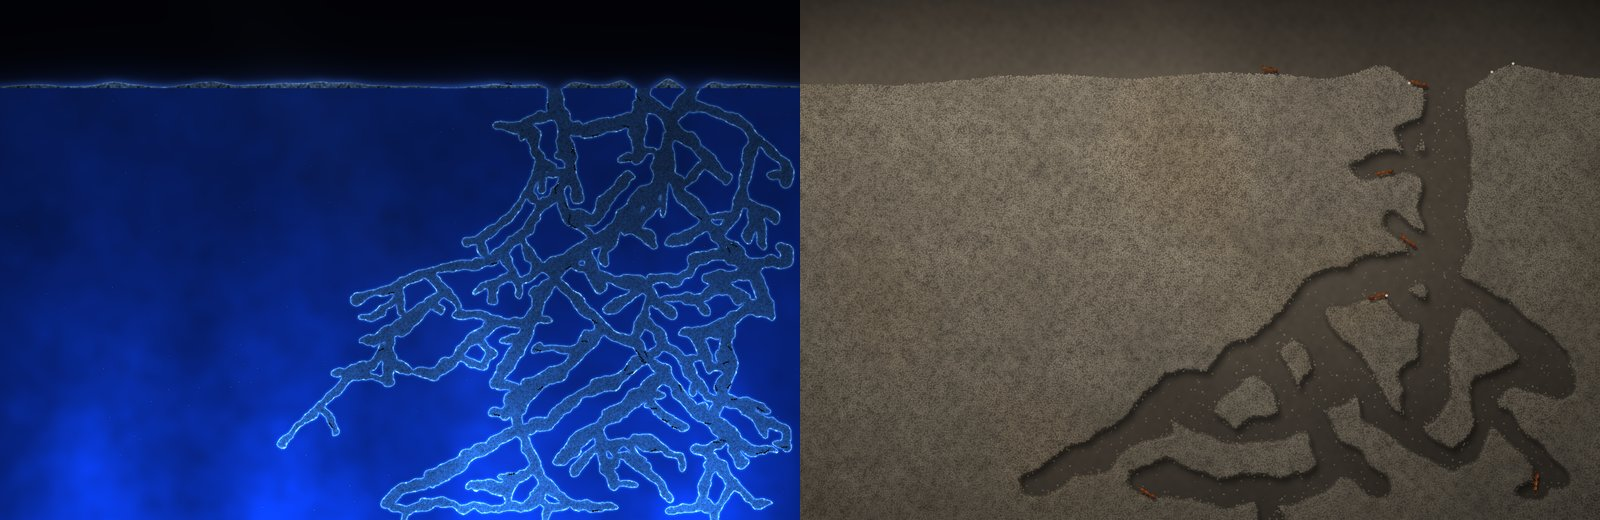
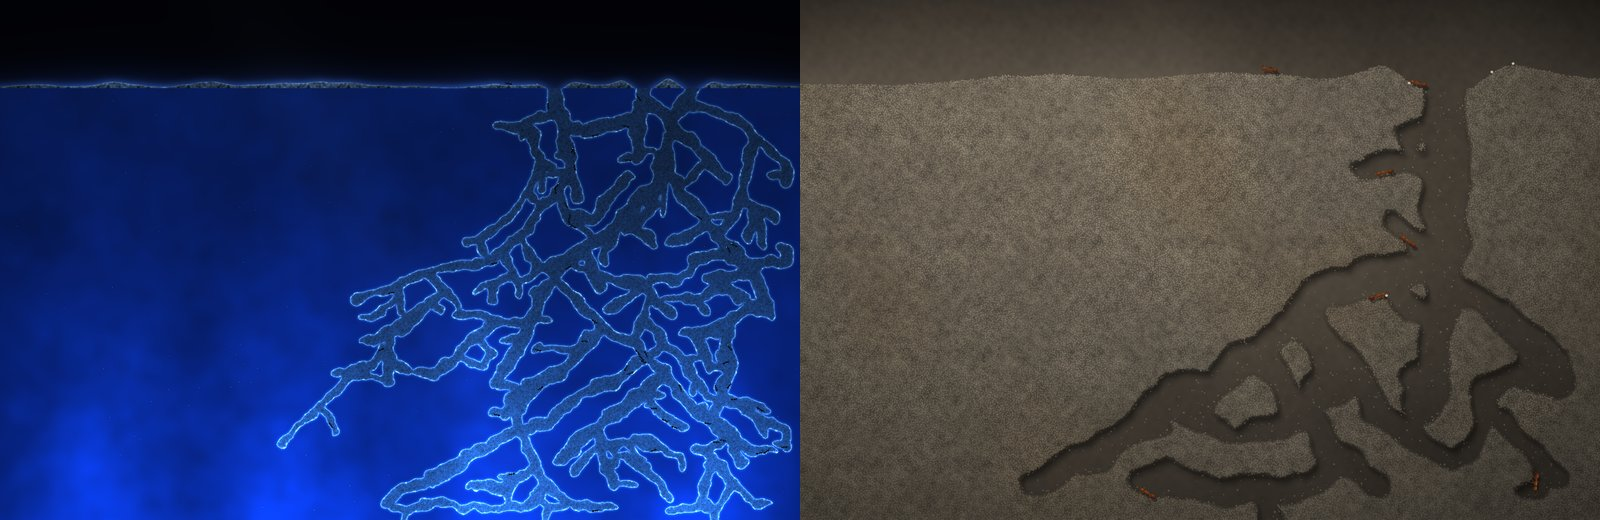
Ant Colony: sand finds a pixel's grain with one read, and the doc's record is put right
Sand cost 3.7 ms of GPU on a 6K display, the size the budget is set
for: to have grains with no lattice, each pixel looked through the
nine squares round it for the nearest. The scatter is now baked once
into a tile that repeats every 64 squares, each texel saying which
grain it is in, how far off its middle is and how big it is, read at
a texel's middle. Sand is 1.5 to 1.7 ms there and 0.45 on a laptop's
display, and looks as it did at native and at half size. A grain's
size is now its own, where it had changed across a grain with the
pixel asking.

In the doc: the standard look and the dim sand are Dave's picks, not
the lead's, and are in his table; his second remark is quoted without
the toy's name, which the doc gives once; at Speed 1 an unfinished
nest carried over is replaced at six; the second of black before a
farm fades up at Small on a 6K display is under "Still open"; Bright
Gel's 2.8 ms there is in the cost table, left until he has chosen
between the gels.

diff --git a/Sources/Atrium/AntColony.swift b/Sources/Atrium/AntColony.swift
@@ -279,6 +279,8 @@ final class AntColony: SKScene {
         return tile
     }()
 
+    private static let scatter = SKTexture(data: Nest.scatter(), size: CGSize(width: 512, height: 512))
+
     private let medium = SKSpriteNode(), swarm = SKNode()
     /// The share dug; how many times that share a cell's rank is from it, for the shader to open a cell over the
     /// digging of the twenty before it; and the whole picture's fade up when a farm lands.
@@ -327,7 +329,8 @@ final class AntColony: SKScene {
         if let made = shaders[look] { return made }
         let made = SKShader(source: shaderCommon + Self.source(look), uniforms: [
             cells, SKUniform(name: "u_bl", float: Float(Self.antCells)), SKUniform(name: "u_px", float: Float(size.width / pixel)),
-            SKUniform(name: "u_grain", texture: Self.grain), map, heap, near, dug, fade, show])
+            SKUniform(name: "u_grain", texture: Self.grain), map, heap, near, dug, fade, show]
+            + (look == 2 || look == 3 ? [SKUniform(name: "u_scatter", texture: Self.scatter)] : []))
         shaders[look] = made
         return made
     }
@@ -669,21 +672,15 @@ final class AntColony: SKScene {
     """
 
     /// The sand's grains: a tenth of an ant across, scattered one to a square with no lattice to them (a lattice
-    /// shows as a weave when the picture is drawn at half size). This finds the grain a pixel is in, the nearest
-    /// of the nine squares round it, which is where the map is then read; and the next nearest, for how big the
-    /// grain can be without running into it.
+    /// shows as a weave when the picture is drawn at half size). The scatter is baked once into a tile that
+    /// repeats every 64 squares (`Nest.scatter`), read at a texel's middle: one read gives the grain a pixel is in,
+    /// where its middle is, which is where the map is then read, and how big it is. (Looking through the nine
+    /// squares round the pixel for it cost 3.7 ms of GPU on a 6K display.)
     private static let grains = """
-            vec2 gp = cell / (0.10 * u_bl), middle = gp, next = gp;
-            float away = 9.0, second = 9.0;
-            vec4 mine = vec4(0.0);
-            for (int k = 0; k < 9; k++) {
-                vec2 square = floor(gp) + vec2(mod(float(k), 3.0), floor(float(k) / 3.0)) - 1.0;
-                vec4 r = hash42(square + 17.0);
-                vec2 c = square + 0.06 + 0.88 * r.xy;
-                float d = length(gp - c);
-                if (d < away) { second = away; next = middle; away = d; middle = c; mine = r; }
-                else if (d < second) { second = d; next = c; }
-            }
+            vec2 gp = cell / (0.10 * u_bl), within = fract(gp / 64.0) * 64.0, texel = (floor(within * 8.0) + 0.5) / 8.0;
+            vec4 mine = texture2D(u_scatter, texel / 64.0);
+            vec2 middle = gp - within + texel + (mine.rg - 0.5) * 3.0;
+            float away = length(gp - middle);
             vec2 at = middle * 0.10 * u_bl;
     """
 
@@ -699,9 +696,9 @@ final class AntColony: SKScene {
             // and a few glinting; and between the beads the shadowed ones behind.
             vec3 sand = \(sand) * (1.0 - clamp(slow.b - 0.6, 0.0, 2.0) * vec3(0.0, 0.018, 0.045));
             vec4 more = hash42(floor(middle) + 53.0);
-            float size = clamp(0.49 * length(middle - next), 0.24, 0.56), bead = clamp((size - away) * 0.10 * u_bl * ppc / 1.3 + 0.5, 0.0, 1.0);
+            float size = 0.24 + 0.32 * mine.b, bead = clamp((size - away) * 0.10 * u_bl * ppc / 1.3 + 0.5, 0.0, 1.0);
             float lamp = dot((gp - middle) / size, vec2(-0.5, -0.86));
-            float shade = (0.90 + 0.11 * mine.w + 0.12 * lamp) * (1.0 + 0.035 * n.b + 0.03 * slow.r) * (1.0 - 0.30 * step(more.x, 0.03));
+            float shade = (0.90 + 0.11 * more.w + 0.12 * lamp) * (1.0 + 0.035 * n.b + 0.03 * slow.r) * (1.0 - 0.30 * step(more.x, 0.03));
             vec3 grain = sand * shade + 0.30 * step(0.955, more.y) * clamp(1.0 - 3.0 * length((gp - middle) / size - vec2(-0.3, -0.4)), 0.0, 1.0);
             vec3 between = sand * (0.74 + 0.04 * n.b);
             float edge = clamp((1.0 - close) * 2.0, 0.0, 1.0); // the sand's last grains before a tunnel

diff --git a/Sources/AntNest/Nest.swift b/Sources/AntNest/Nest.swift
@@ -178,6 +178,39 @@ public struct Nest: Sendable {
         return Data(out)
     }
 
+    /// Sand's grains, scattered once and for all: a tile of `squares` squares a side that repeats, a grain to each
+    /// square and anywhere in it, drawn `texels` texels to a square. Each texel says which grain it is in, the
+    /// nearest: in red and green how far that grain's middle is from the texel's own, over three squares about a
+    /// half, and in blue how big the grain is, from 0.24 of a square to 0.56 (as big as its nearest neighbour
+    /// lets it be). A shader reads it at a texel's middle and so finds a pixel's grain with one read, where
+    /// looking through the squares round the pixel cost nine.
+    public static func scatter(squares: Int = 64, texels: Int = 8, seed: UInt64 = 11) -> Data {
+        var dice = Dice(seed: seed)
+        let middles = (0..<squares * squares).map { k in SIMD2(Double(k % squares), Double(k / squares)) + 0.06 + 0.88 * SIMD2(dice.unit(), dice.unit()) }
+        /// The grains of the nine squares round a square, each where it is as seen from there (the tile repeats).
+        func round(_ x: Int, _ y: Int) -> [SIMD2<Double>] {
+            (0..<9).map { k in
+                let (i, j) = (x + k % 3 - 1, y + k / 3 - 1), (wi, wj) = ((i + squares) % squares, (j + squares) % squares)
+                return middles[wj * squares + wi] + SIMD2(Double(i - wi), Double(j - wj))
+            }
+        }
+        let sizes = (0..<squares * squares).map { k -> Double in
+            let near = round(k % squares, k / squares).map { simd_distance($0, middles[k]) }.filter { $0 > 0 }.min() ?? 1
+            return min(max(0.49 * near, 0.24), 0.56)
+        }
+        let side = squares * texels
+        var out = [UInt8](repeating: 255, count: side * side * 4)
+        for ty in 0..<side { for tx in 0..<side {
+            let here = (SIMD2(Double(tx), Double(ty)) + 0.5) / Double(texels), (x, y) = (tx / texels, ty / texels)
+            let nearest = round(x, y).min { simd_distance_squared($0, here) < simd_distance_squared($1, here) }!
+            let home = SIMD2((Int(nearest.x.rounded(.down)) + squares) % squares, (Int(nearest.y.rounded(.down)) + squares) % squares)
+            let off = (nearest - here) / 3 + 0.5, to = (ty * side + tx) * 4
+            (out[to], out[to + 1]) = (UInt8((off.x * 255).rounded()), UInt8((off.y * 255).rounded()))
+            out[to + 2] = UInt8(((sizes[home.y * squares + home.x] - 0.24) / 0.32 * 255).rounded())
+        } }
+        return Data(out)
+    }
+
     // MARK: - After the growth: the lumps, the ranks, the links and the spoil
 
     private mutating func finish(_ b: inout Builder, cap: Double) {

diff --git a/docs/ant-colony.md b/docs/ant-colony.md
@@ -17,13 +17,15 @@ Dave asked for it on 2026-10-12, slowly evolving and "based on realistic ant mov
 |---|---|
 | Name | Ant Colony |
 | What it shows | "that sideways clear view into the ant colony as it slowly forms and gets bigger" |
-| Look | "Gel and sand both", as a setting. Then, having seen both rounds of mock-ups: "i love all of the ... mockups, all of what has been shown should be an option to select somehow". So every medium he was shown is a pick: the gel, sand dim and white, and earth |
+| Look | "Gel and sand both", as a setting. Then, having seen both rounds of mock-ups: "all of what has been shown should be an option to select somehow". So every medium he was shown is a pick: the gel, sand dim and white, and earth |
+| The standard look | "Gel" |
+| The sand | "Both, as a setting; dim by default" |
 | Size of ant | "Middle, with a Size setting" |
 | Time | "A farm a day", by the wall's clock, with a Speed slider |
 | The toy on screen | no frame and no skyline: the display is the glass, edge to edge |
 | How to build | "Build now, refine as it goes" |
 
-The lead's calls, which he has not ruled on: gel is the standard look, the mock-ups' deep dim one, with the brighter gel of the realism pass kept beside it as Bright Gel for him to compare; sand is dimmed and warm unless White Sand is picked; the day begins at six and follows the clock in [The day](#the-day), which is not how ants dig; the colony grows with its nest, and is ants only (no queen, no brood); a young colony sinks one or two shafts at a time; someone is always walking. The builder's, which neither has ruled on: Speed stops at 8; three ants to a face; ninety ants at the most.
+The lead's calls, which he has not ruled on: the mock-ups' deep dim gel is "Gel", with the brighter gel of the realism pass kept beside it as Bright Gel for him to compare; Speed keeps the nest on the tank; the day begins at six and follows the clock in [The day](#the-day), which is not how ants dig; the colony grows with its nest, and is ants only (no queen, no brood); a young colony sinks one or two shafts at a time; someone is always walking; the slider for how many ants is "Colony size". The builder's, which neither has ruled on: Speed stops at 8; three ants to a face; ninety ants at the most.
 
 ## What real ants and nests do
 
@@ -92,7 +94,7 @@ A day runs from six to six, and a nest takes 24 hours divided by Speed. The shar
 
 Which farm is on the tank, and how long it has been going, is one `Cycle` shared by every copy of the scene and kept in the defaults (`antcolony.farm`, the day it began and its turn in that day, which together are its seed; `antcolony.began`, when it would have begun at this pace; `antcolony.paced`). So a relaunch finds its place at any Speed from those three numbers, and Shuffle or a rebuild goes on from where it was. Every copy is at the same moment of the same farm; the nest itself is baked for a copy's own size, a tank as wide as its display, so two displays of one size show one nest, and two of different sizes (or Settings' preview) two nests of the one seed, each as far dug as the other.
 
-- **At Speed 1 a farm begins at six and only at six.** From a fresh install it is exactly the day's wall-clock farm. A nest finished early (Speed has been higher) stays finished, its ants about, until six.
+- **At Speed 1 a farm begins at six and only at six.** From a fresh install it is exactly the day's wall-clock farm. A nest finished early (Speed has been higher) stays finished, its ants about, until six; and an unfinished one carried over from a higher Speed is replaced at six, however far it has got.
 - **Above 1 the next farm begins as each ends,** through the fade.
 - **Moving Speed never moves the dig,** up or down: as much is dug as was, and it goes on from there at the new pace. (The first build's clock was a plain function of the wall's time and the slider, so a change of Speed could land in another nest.)
 - The ants walk no faster at any Speed.
@@ -119,7 +121,7 @@ One full-screen sprite with one of five shaders, a look each, and sprites for th
 - **What a read or two cannot tell** (how near a wall is, at three widths, and which way the wall faces the light) is three blurs of the dug mask in a third texture, worked out again off the main thread for each 4000th of the digging (13 ms).
 - **Gel**, the standard, is the mock-up Dave chose from: a deep blue slab that glows toward four lamps in its base; a tunnel is a frosted, paler tube with light gathered into a bright line at its edge, a halo in the gel beside it, a sheen and beads along its wet wall; small bubbles hang in the gel; what is dug lies on top as pale crumbs; the air above is dark but for the glow that leaks up, against which an ant on the heap is a shape. Ants are flat and dark.
 - **Bright Gel** is the same tank nearer photograph 6, and far brighter: a bloom of faint rays over each lamp, more bubbles, and tunnels that are the gel's own blue a little paler with bubbles frothing at their walls.
-- **Sand.** Grains a tenth of an ant across, scattered one to a square with no lattice to them (on a square lattice they showed as a weave wherever the picture was drawn at half size: a non-Retina display, Settings' preview, a README picture). The map is read at the middle of the grain a pixel is in, so a grain is there whole or not at all: an edge crumbles by the grain. A grain is as big as its nearest neighbour lets it be. A tunnel is a trough, its wall curving back to the pane behind, dark under its upper lip, with loose grains lying on the pane, most of them along the floors. Ants are red harvesters lit from above, their far legs darker, with a shadow on the pane. **Sand** is the mock-ups' warm sand (211,201,183, warmed) at two thirds of its brightness, with warm dark tunnels; **White Sand** is the toy's, matched to photograph 1, with the grey pane behind.
+- **Sand.** Grains a tenth of an ant across, scattered one to a square with no lattice to them (on a square lattice they showed as a weave wherever the picture was drawn at half size: a non-Retina display, Settings' preview, a README picture). The scatter is baked once into a tile that repeats every 64 squares (`Nest.scatter`), each of its texels saying which grain it is in, so a pixel finds its grain with one read. The map is read at the middle of the grain a pixel is in, so a grain is there whole or not at all: an edge crumbles by the grain. A grain is as big as its nearest neighbour lets it be. A tunnel is a trough, its wall curving back to the pane behind, dark under its upper lip, with loose grains lying on the pane, most of them along the floors. Ants are red harvesters lit from above, their far legs darker, with a shadow on the pane. **Sand** is the mock-ups' warm sand (211,201,183, warmed) at two thirds of its brightness, with warm dark tunnels; **White Sand** is the toy's, matched to photograph 1, with the grey pane behind.
 - **Earth.** Photograph 8's fine yellow-brown soil, too fine to show a grain, in clumps, lit from the upper left, its edge pushed about half a grain deep; tunnels dark, the soil behind in the shadow of the upper lip, with crumbs left on the pane beside the walls and a little light on the floors; a dark room above. Its ants are the sand's, and are not dimmed with the soil: in the first mock-up they were, and could hardly be seen in the tunnels.
 - **An ant** is a painted body and a sprite for each length of leg and antenna (16, or 22 for the largest ants, the only ones whose feet are big enough to show a bend), with soft sides so that a leg thinner than a pixel is a faint line and not a row of dots. An ant standing still has only its antennae placed.
 
@@ -166,19 +168,22 @@ Measured 2026-10-12 on an M3 Max with other work running, a debug build (the Ant
 
 | Display, at 2x | Look, ants | CPU ms (update + drawing) | GPU ms |
 |---|---|---|---|
-| 14-inch, 1512 × 982 points | Gel, Medium, 24 | 1.0 (0.24 + 0.08) | 0.5 |
+| 14-inch, 1512 × 982 points | Gel, Medium, 24 | 0.9 (0.26 + 0.08) | 0.5 to 0.7 |
 | | Bright Gel | the same | 0.85 |
-| | Sand or White Sand | the same | 1.1 |
+| | Sand or White Sand | the same | 0.45 |
 | | Earth | the same | 0.35 |
 | | Gel, Small at Colony size 2×, 90 | 1.9 (0.93 + 0.26) | 0.5 |
-| 6K, 3008 × 1692 points | Gel, Medium, 82 | 1.75 (0.84 + 0.23) | 1.75 |
-| | Gel, Small, 90 | 1.8 (0.93 + 0.26) | 1.7 |
-| | Sand, Small, 90 | 1.8 | 3.7 |
-| | Earth, Medium, 82 | 1.7 | 1.1 |
+| 6K, 3008 × 1692 points | Gel, Medium, 82 | 1.6 to 1.75 (0.9 + 0.26) | 1.75 |
+| | Gel, Small, 90 | 1.8 (0.92 + 0.26) | 1.7 |
+| | Bright Gel, Medium | 1.8 to 2.1 | 2.8 |
+| | Sand or White Sand, Medium | 1.6 to 1.85 | 1.5 to 1.7 |
+| | Sand, Small, 90 | 1.7 | 1.5 |
+| | Earth, Medium, 82 | 1.6 to 1.7 | 1.15 |
 
 - **The colony stops at ninety ants** so that the CPU figure stays under 2 ms on the largest display. An ant is eighteen sprites (two lengths to a leg; three for the largest ants), each placed, turned and stretched every frame it walks; an ant standing still has only its antennae placed. Stepping the ants is the small part: 36 millionths of a second a step for 22 of them (`probe.swift`), two steps to a frame at 30 fps.
-- **Sand is over the GPU budget on a 6K display** (3.7 ms): finding a pixel's grain looks through the nine squares round it, which is the price of grains with no lattice. On a laptop's display it is 1.1 ms.
-- **Before a farm fades up** its nest is baked and its ants run three minutes on, off the main thread: 0.06 s and 0.03 s on a 14-inch display at Medium, 0.18 and 0.11 at Small; 0.22 and 0.12 on a 6K display at Medium; and at Small on 6K, the largest tank there is (2,545 by 1,432 cells), 0.87 and 0.12, so about a second of black. The surroundings follow the nest (13 ms on a 14-inch display, 190 ms for the largest tank) and again each 4000th of the digging.
+- **Sand was 3.7 ms of GPU on a 6K display** while a pixel looked for its grain through the nine squares round it (1.1 ms on a laptop's). With the scatter baked into a tile it is 1.5 to 1.7 ms there.
+- **Bright Gel is over the GPU budget on a 6K display** (2.8 ms). Left until Dave has chosen between the gels.
+- **Before a farm fades up** its nest is baked and its ants run three minutes on, off the main thread: 0.06 s and 0.03 s on a 14-inch display at Medium, 0.18 and 0.11 at Small; 0.22 and 0.12 on a 6K display at Medium; and at Small on 6K, the largest tank there is (2,545 by 1,432 cells), 0.87 and 0.12, so about a second of black ([Still open](#still-open)). The surroundings follow the nest (13 ms on a 14-inch display, 190 ms for the largest tank) and again each 4000th of the digging.
 - Not measured: a release build, a slower Mac. The research's own timing sketch of a simpler shader ran 0.35, 0.7 and 1.0 ms of GPU at 14-inch, 5K and 6K on the same machine.
 
 ## Checking it
@@ -223,8 +228,9 @@ Worst first, as the builder saw it on stills and strips; Dave has not seen it ru
 9. **Tunnels are 1.3 to 1.5 ant lengths wide** once their walls have widened, against the measured one, so ants look small in them.
 10. **Digging is a nod of the head,** and a grain appears in the jaws.
 11. **The lit ant is drawn, not photographed,** and is lit from its own back, so its highlight turns with it. In earth it is small and bright against a dark tunnel, and has been judged on stills only.
-12. Not checked: the Settings page itself (its test opens a window on the screen), so the five looks have not been seen in its menu nor the head start behind its page; the picture on a 5K or 6K display (only its cost, off screen); a 1x display, a second display, a slower Mac, a release build, the lock screen's still.
-13. **Some people do not want insects on their screen,** and small dark things moving at the edge of vision can read as a real one on the glass. Whether it should be left out of Shuffle's list until picked is Dave's to say.
+12. **A second of black at Small on a 6K display** before a farm fades up (it was 1.7 to 1.85 s with ten minutes of ants and the surroundings waited for; the bake is one thread and is left so). 0.34 s at Medium there, 0.09 s on a 14-inch display.
+13. Not checked: the Settings page itself (its test opens a window on the screen), so the five looks have not been seen in its menu nor the head start behind its page; the picture on a 5K or 6K display (only its cost, off screen); a 1x display, a second display, a slower Mac, a release build, the lock screen's still.
+14. **Some people do not want insects on their screen,** and small dark things moving at the edge of vision can read as a real one on the glass. Whether it should be left out of Shuffle's list until picked is Dave's to say.
 
 ## Next ideas
 

diff --git a/docs/README.md b/docs/README.md
@@ -36,7 +36,7 @@ One file per wallpaper, recording what the code can't: how each scene works, why
 | Meander | [meander.md](meander.md) | `Meander.swift`, `Sources/MeanderRiver/` | a river stepped on the CPU (banks move by their curvature, necks cut off into oxbow lakes), its ground written to a texture and drawn by one of two shaders: lidar-style relief, or an old map after Fisk's 1944 sheets | look (Relief or Old map), four colour families a look with Random and how often it changes, Light and Dark Mode followed on the same river, meanders within the screen or a full view, inks, scroll bars, river size, speed, how long old courses stay and lakes last, Look | none | 0.5 / 0.71–0.93 on an ordinary frame; a frame with two steps, at the top of Speed and 15 fps, 2.95–3.7 of CPU (measured 2026-10-12, on a busy Mac) |
 | Etching (unfinished, hidden) | [etching.md](etching.md) | `Etching.swift`, `Sources/LineRoute/`, `Resources/etching-*`, `docs/etching/` | old etchings, engravings and woodcuts, each shipped as the route a stylus takes to draw it in one unbroken line (outlines, then hatching), stamped once into textures of when each texel is first drawn and gone over again, which one shader compares with the wall clock; a finished picture rests, clears to a ghost and gives way to the next | picture (Random, or one of thirteen old prints, plates and patent drawings), detail (the toy's line width or half that), speed (1× to 60×); the screen follows the system's appearance | none | 0.45–0.65 / 0.22–0.29 (a debug build, measured 2026-10-12) |
 | Peg Board (unfinished, hidden) | [peg-board.md](peg-board.md) | `PegBoard.swift`, `Sources/PegLattice/`, `Resources/peg-board-*`, `docs/peg-board/` | one shader over three small textures (each hole's colour, its place in the order, and the glow, stamped on the CPU as pegs go in): a snow crystal grown by Reiter's model or a picture cut down to pegs and built outline first, then a slow light show, then the sheet clears | two sets of peg colours (Calm, Vivid) or Random, Shows (everything, patterns only, pictures only), speed, peg size (Large, Medium, Small), softness | none | 0.44–1.06 / 0.37–0.54 (debug build, measured 2026-10-12) |
-| Ant Colony (unfinished, hidden) | [ant-colony.md](ant-colony.md) | `AntColony.swift`, `Sources/AntNest/`, `docs/ant-colony/` | a nest baked whole from the date as one map of when each cell is dug, which one of five shaders (blue gel lit from its base, dim or bright; sand in separate grains, dim or white; earth) compares with the wall clock; ants sent to the faces the map says are being worked, each a painted body with jointed legs whose feet are planted on the walls | look (Gel, Bright Gel, Sand, White Sand, Earth), speed (1 to 8 farms a day), ant size (Small, Medium, Large), colony size | none | 1.0 / 0.5 in gel (0.85 bright, 1.1 in sand, 0.35 in earth); 1.9 with ninety small ants; on a 6K display 1.75–1.8 / 1.1–1.75, and 3.7 of GPU in sand (a debug build, measured 2026-10-12) |
+| Ant Colony (unfinished, hidden) | [ant-colony.md](ant-colony.md) | `AntColony.swift`, `Sources/AntNest/`, `docs/ant-colony/` | a nest baked whole from the date as one map of when each cell is dug, which one of five shaders (blue gel lit from its base, dim or bright; sand in separate grains, dim or white; earth) compares with the wall clock; ants sent to the faces the map says are being worked, each a painted body with jointed legs whose feet are planted on the walls | look (Gel, Bright Gel, Sand, White Sand, Earth), speed (a nest in a day, down to three hours), ant size (Small, Medium, Large), colony size | none | 0.9 / 0.5–0.7 in gel (0.85 bright, 0.45 in sand, 0.35 in earth); 1.9 with ninety small ants; on a 6K display 1.6–1.85 / 1.15–1.75, and 2.8 of GPU in the bright gel (a debug build, measured 2026-10-12) |
 
 \*Release build, 2x Retina at 1512×982 points, measured 2026-09-24 with `swift test -c release -Xswiftc -enable-testing`. The budget is about 2 ms each for CPU and GPU. Debug builds are pessimistic on CPU (Murmuration runs about 16–19 ms in debug).
 
@@ -73,7 +73,7 @@ Add or refresh one whenever a wallpaper's look changes. Settings shows one of th
 - **Unfinished, hidden for 1.0** (2026-09-30): A Tree for the Year and Campfire aren't hitting the mark yet, so they're flagged `unfinished` (see their docs to revisit). Merging Game of Life and Turing Patterns into one wallpaper is on hold while Dave thinks it over; the case against was that they share no engine and few settings.
 - **Three new ones** (2026-10-10 to 12): from a brainstorm ([ideas.md](ideas.md)) he picked Black Hole, Meander and a train window for Pixel Window Seat. Each was researched and mocked up for him to choose from, then built in steps behind the `unfinished` switch while he tested them. On 2026-10-12 he asked for their README and site pictures and, asked which to unhide, said all three: they're in the app for everyone from 0.109.0.
 - **Etching** (2026-10-12): he asked for a wallpaper after the two-dial drawing toy, "where intricate public domain images become slowly drawn out over time starting from fresh", and for research and mock-ups first. Having seen them he chose the unbroken line with shading over a line that lifts, "Screen alone now, frame later", the line's width "Both, as a setting", a Speed slider "in case a user wants to see it go faster", and ruled "nothing religious" for the pictures (classical myth is fine). He put it ahead of the peg board: "the etch one is looking really really good". It was built that day behind the `unfinished` switch, and he named it Etching, for the old prints it draws ([etching.md](etching.md)).
-- **Ant Colony** (2026-10-12): he asked for a slowly evolving colony "based on realistic ant movements", following "same pattern we are for etch and light grid, research team, then mockups, then build", and then: "think that sideways clear view into the ant colony as it slowly forms and gets bigger". From the mock-ups he chose "Gel and sand both", the middle size of ant "with a Size setting", "A farm a day" with a Speed slider, and the name; and then "Build now, refine as it goes". Having seen both rounds: "i love all of the ... mockups, all of what has been shown should be an option to select somehow", so earth came back and every look is a pick. It was built that day behind the `unfinished` switch ([ant-colony.md](ant-colony.md)).
+- **Ant Colony** (2026-10-12): he asked for a slowly evolving colony "based on realistic ant movements", following "same pattern we are for etch and light grid, research team, then mockups, then build", and then: "think that sideways clear view into the ant colony as it slowly forms and gets bigger". From the mock-ups he chose "Gel and sand both", the middle size of ant "with a Size setting", "A farm a day" with a Speed slider, and the name; and then "Build now, refine as it goes". Having seen both rounds: "all of what has been shown should be an option to select somehow", so earth came back and every look is a pick. It was built that day behind the `unfinished` switch ([ant-colony.md](ant-colony.md)).
 - **Small updates** (2026-10-10): "my goal is to prevent users from having to re download the whole thing over and over as i add more wallpapers." He asked about publishing a delta with each release; after research and tests he chose the design that needs no chain of deltas. An update now fetches only the files that changed, a few MB instead of 400 ([updates.md](updates.md)).
 - **Workflow:** commit early and often; redeploy after each working change and tell him what to test.
 - **Cut:** Zen Garden, on 2026-09-25: "so bright and sharp and not relaxing, opposite of zen." Calm means soft and dim as well as slow. Its code and doc were deleted; they're in git history before the cut.
